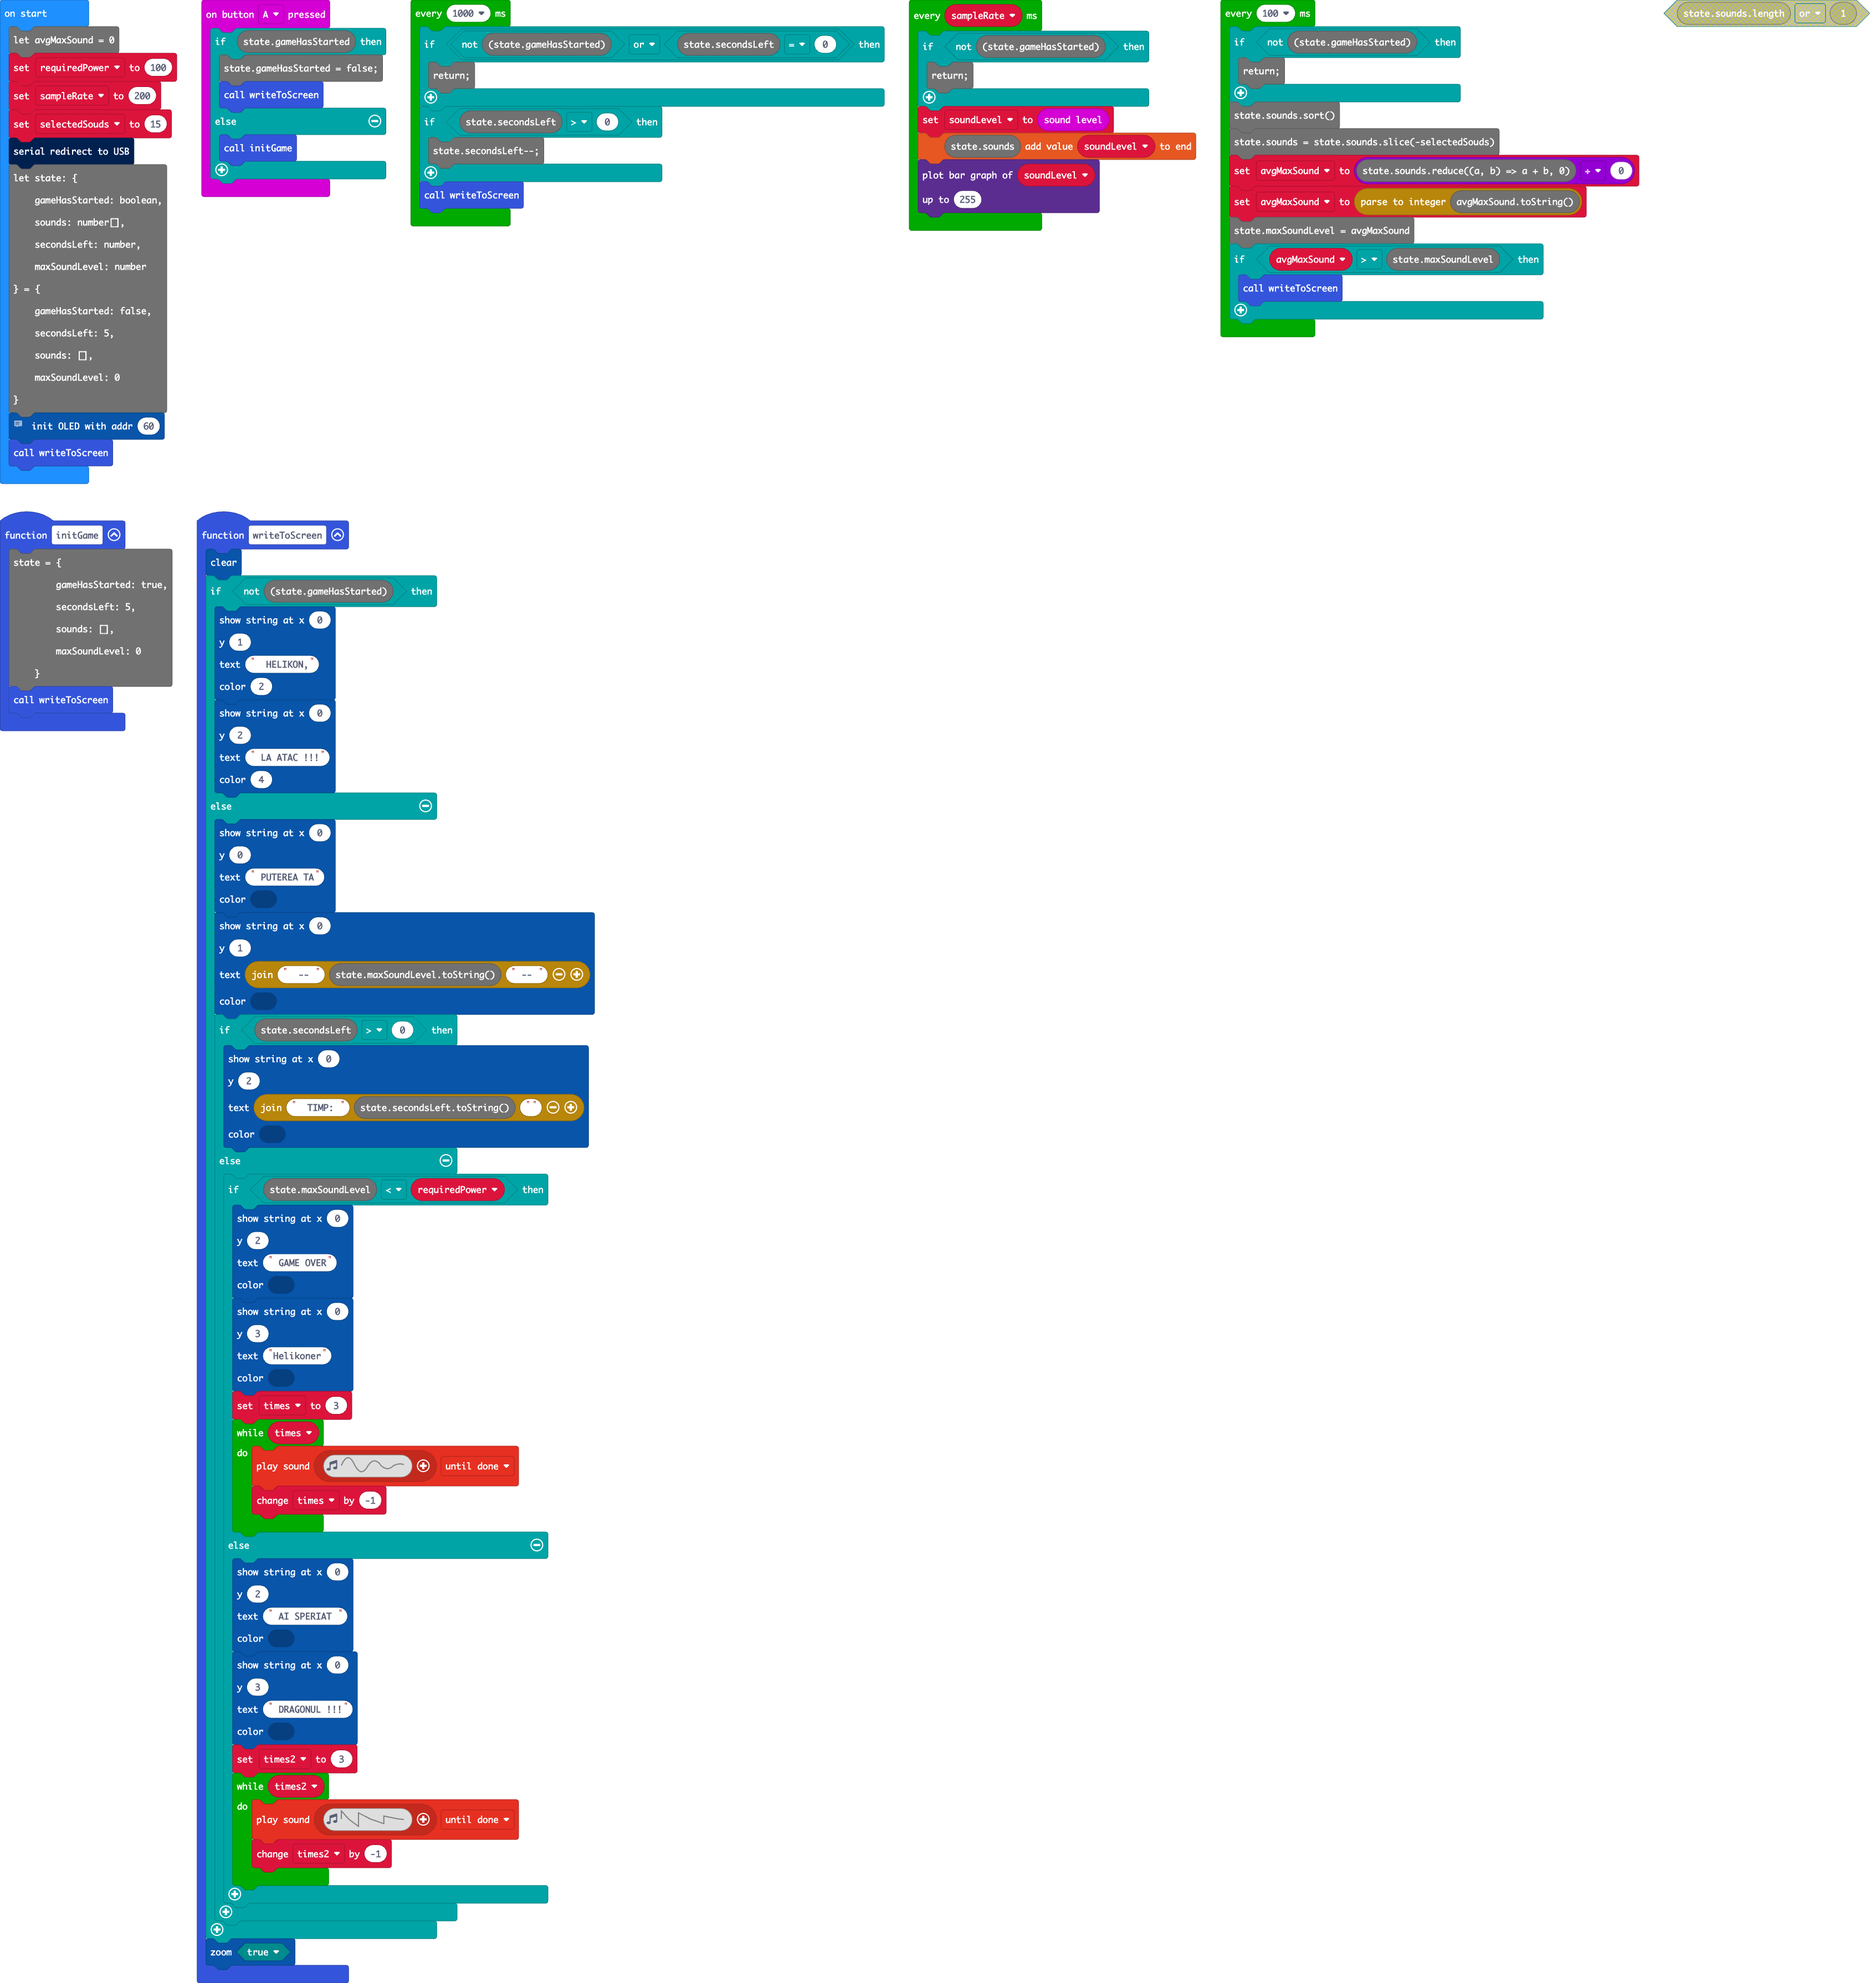
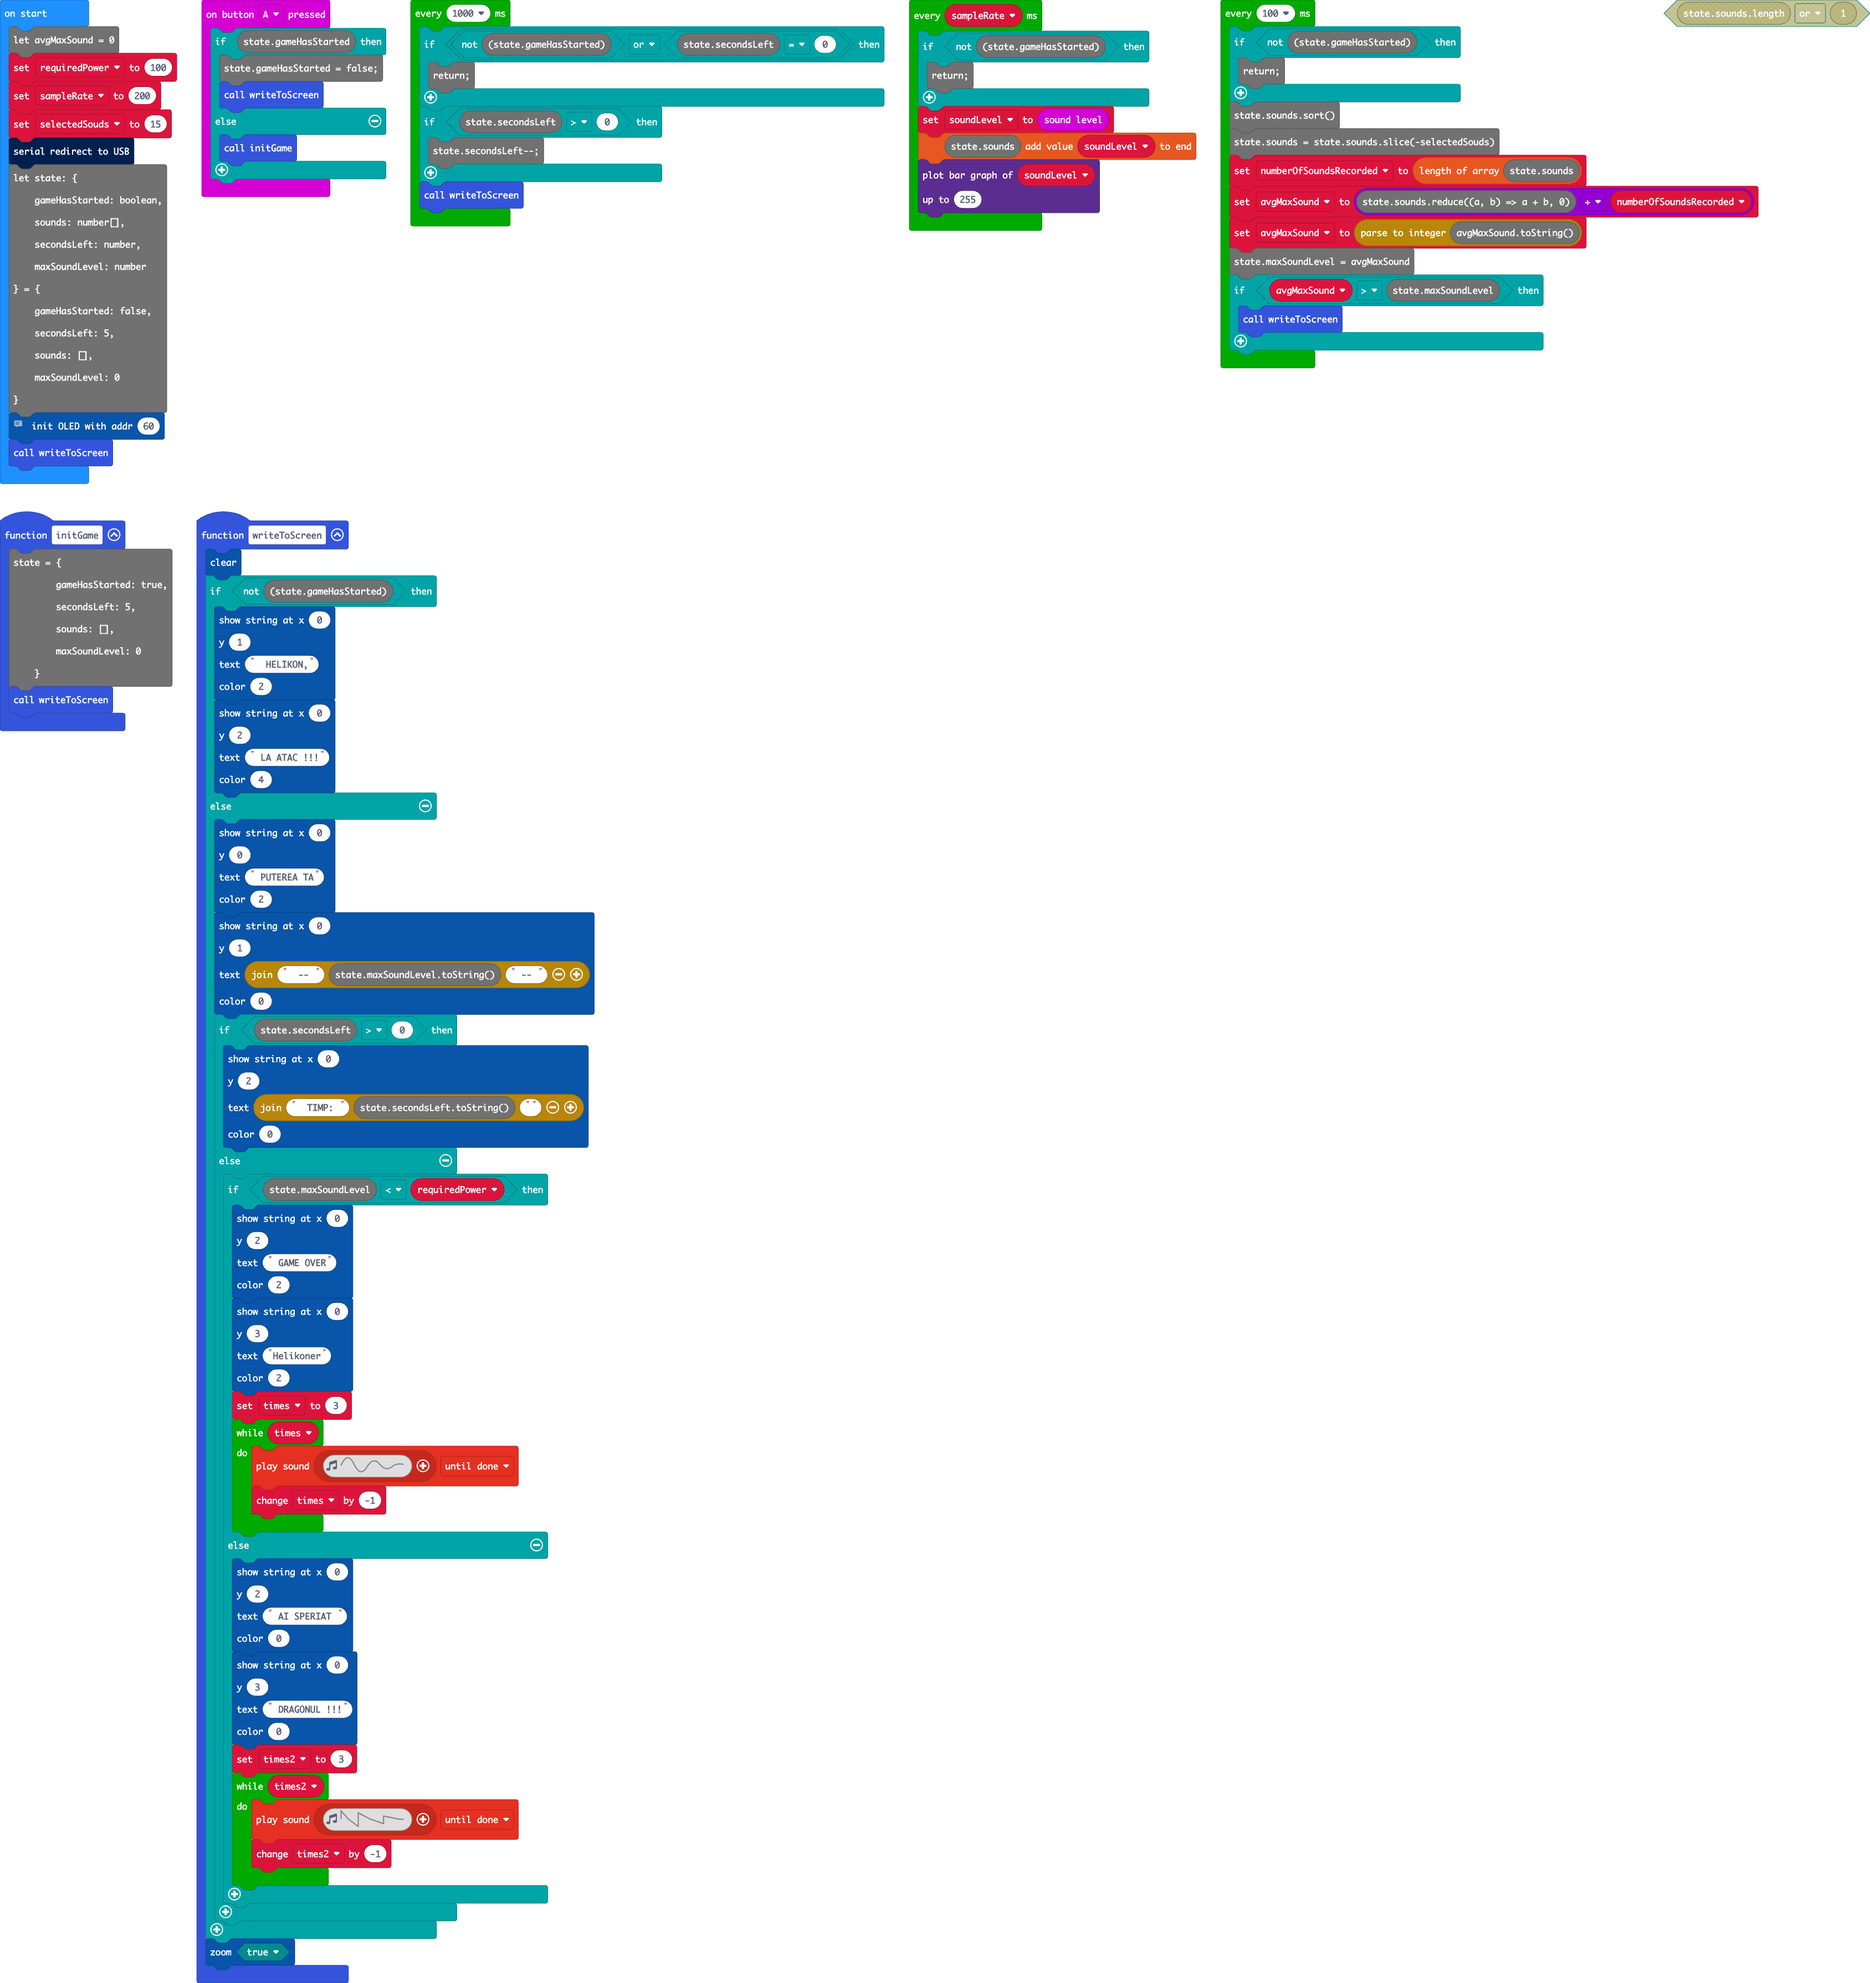
Update main.blocks, main.ts

diff --git a/main.ts b/main.ts
@@ -9,7 +9,7 @@ writeToScreen()
 function initGame () {
     state = {
         gameHasStarted: true,
-        secondsLeft: 5,
+        secondsLeft: 3,
         sounds: [],
         maxSoundLevel: 0
     }
@@ -92,12 +92,13 @@ function writeToScreen () {
     }
     OLED12864_I2C.zoom(true)
 }
+let numberOfSoundsRecorded = 0
 let soundLevel = 0
 let times2 = 0
 let times = 0
 let requiredPower = 0
 let avgMaxSound = 0
-requiredPower = 100
+requiredPower = 45
 let sampleRate = 200
 let selectedSouds = 15
 serial.redirectToUSB()
@@ -141,7 +142,7 @@ loops.everyInterval(100, function () {
     }
     state.sounds.sort()
 state.sounds = state.sounds.slice(-selectedSouds)
-    let numberOfSoundsRecorded = state.sounds.length
+numberOfSoundsRecorded = state.sounds.length
     avgMaxSound = state.sounds.reduce((a, b) => a + b, 0) / numberOfSoundsRecorded
     avgMaxSound = parseInt(avgMaxSound.toString())
     state.maxSoundLevel = avgMaxSound
